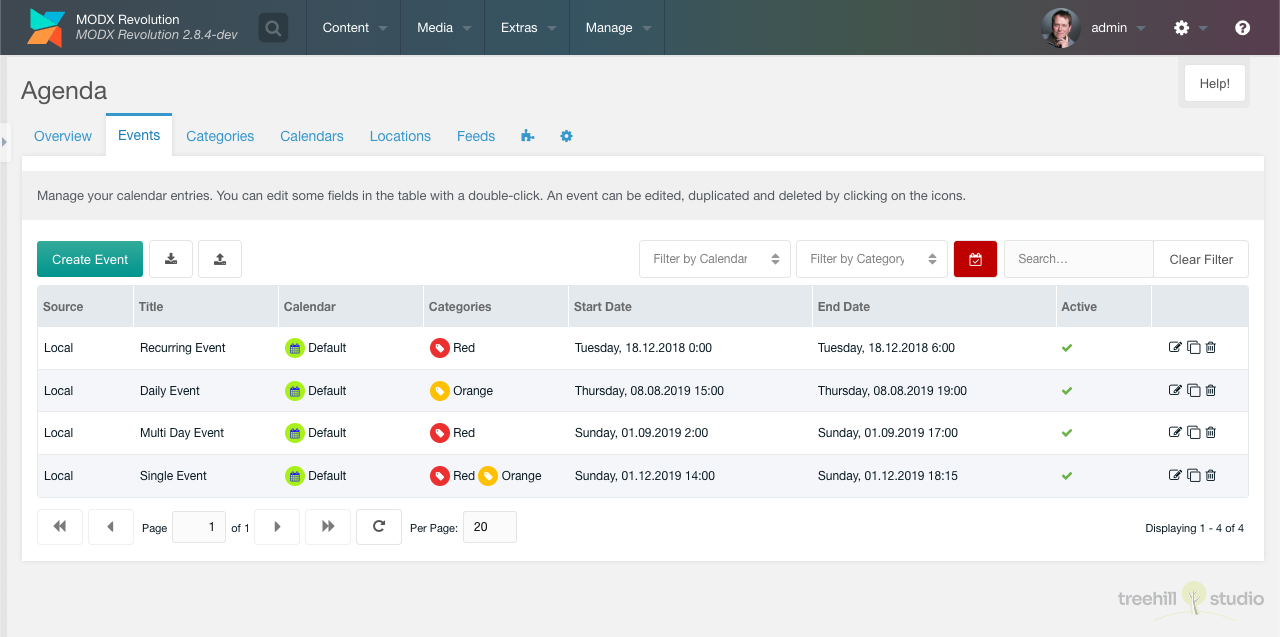
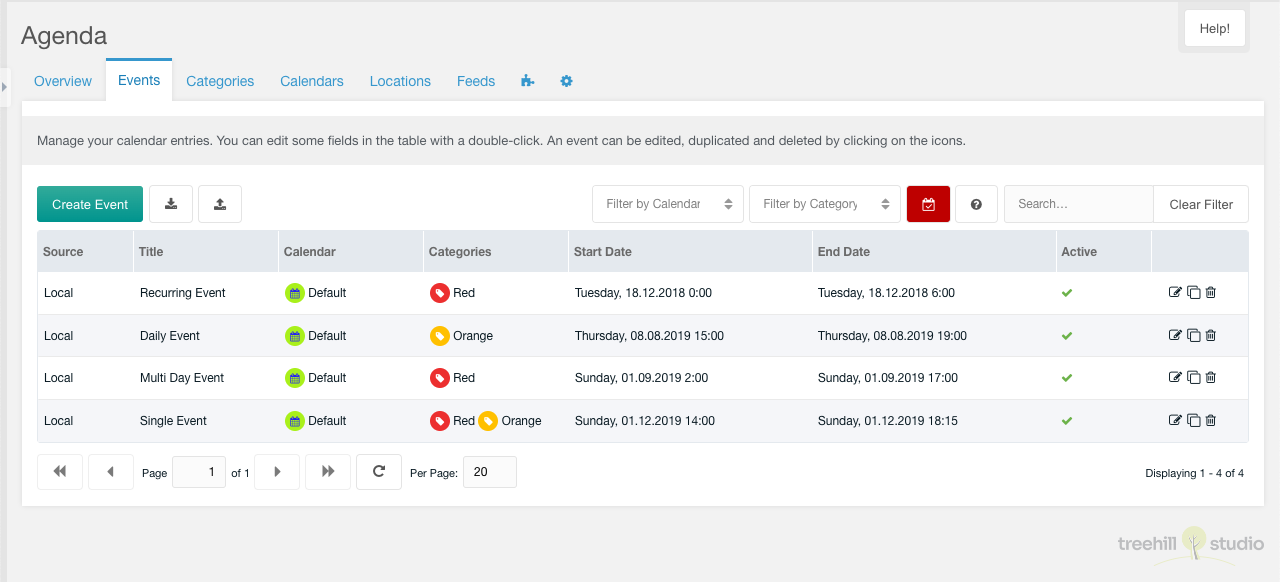
Update docs for 1.6.4 (#245)

diff --git a/en/01_Agenda/v1/04_Snippets/01_AgendaList.md b/en/01_Agenda/v1/04_Snippets/01_AgendaList.md
@@ -4,46 +4,47 @@ This snippet displays events in a list view.
 
 It uses the following snippet properties:
 
-| Property           | Description                                                                                                                                                                                       | Default                |
-|--------------------|---------------------------------------------------------------------------------------------------------------------------------------------------------------------------------------------------|------------------------|
-| ajax               | **Since 1.4.0** If this option is set, the snippet output will be directly returned to the browser as a JSON result when the page is requested with the same value in the ajax request parameter. | 0 (No)                 |
-| allowedRequestKeys | Comma-separated list of request keys, that can be used to filter the displayed events. Defaults to all allowed.                                                                                   | -                      |
-| calendars          | Comma-separated list of aliases of calendars to filter the displayed events.                                                                                                                      | -                      |
-| categories         | Comma separated list of aliases of categories to filter the displayed events.                                                                                                                     | -                      |
-| categoryTpl        | Name of a chunk that contains the template of one category in the category list of an event.                                                                                                      | tplAgendaEventCategory |
-| contexts           | Comma separated list of context keys to filter the displayed events.                                                                                                                              | -                      |
-| daterangeFormat    | Format of the daterange displayed in an event.                                                                                                                                                    | -                      |
-| daterangeSeparator | Separator in the daterange displayed in an event.                                                                                                                                                 | -                      |
-| detailId           | ID of a resource containing an AgendaDetail snippet call.                                                                                                                                         | -                      |
-| durationParts      | Number of detail parts of the event duration output.                                                                                                                                              | 1                      |
-| durationRound      | **Since 1.5.0** Rounding type for event duration.                                                                                                                                                 | ceil                   |
-| emptyTpl           | Name of a chunk that contains the template for an empty list of events.                                                                                                                           | tplAgendaEventEmpty    |
-| end                | The end date to filter the displayed events. Must contain a [supported date and time format](https://www.php.net/manual/de/datetime.formats.php).                                                 | today +1 month 0:00    |
-| events             | Comma separated list of event IDs to filter the displayed events and their repeats. Supersedes the repeats property.                                                                              | -                      |
-| excludeEvents      | Comma separated list of event IDs to exclude from the displayed events.                                                                                                                           | -                      |
-| excludeRepeats     | Comma separated list of repeating event IDs to exclude from the displayed events.                                                                                                                 | -                      |
-| groupby            | **Since 1.5.0** xPDO group by clause to filter the events.                                                                                                                                        | -                      |
-| imageTpl           | Name of a chunk that contains the template for one image in the image list of an event.                                                                                                           | tplAgendaEventImage    |
-| limit              | Limit the number of events in the result. Use "0" for unlimited events.                                                                                                                           | 20                     |
-| listId             | ID of a resource containing an AgendaList snippet call.                                                                                                                                           | -                      |
-| locale             | The locale for the displayed formatted date. Defaults to the current system/context locale setting.                                                                                               | -                      |
-| locations          | Comma separated list of aliases of locations to filter the displayed events.                                                                                                                      | -                      |
-| locationTpl        | Name of a chunk that contains the template for the location of an event.                                                                                                                          | tplAgendaEventLocation |
-| offset             | The offset of events to skip.                                                                                                                                                                     | -                      |
-| outputSeparator    | An optional string to separate each tpl instance.                                                                                                                                                 | -                      |
-| repeats            | Comma separated list of repeating event IDs to filter the displayed repeating events. Overridden by the events property.                                                                          | -                      |
-| resourceTpl        | Name of a chunk that contains the template for the linked resource of an event.                                                                                                                   | -                      |
-| sortby             | Sort field for sorting the output. It could also contain a JSON object to sort the ouput by multiple fields like <pre>{"AgendaEvents.title":"ASC","all_startdate":"ASC"}</pre>.                   | all_startdate          |
-| sortdir            | Sort direction for sorting the output. Unused when the sortby property contains a valid JSON object.                                                                                              | ASC                    |
-| start              | The start date to filter the displayed events. Must contain a [supported date and time format](https://www.php.net/manual/de/datetime.formats.php).                                               | today 0:00             |
-| toPlaceholder      | If set, the snippet result will be assigned to this placeholder instead of outputting it directly.                                                                                                | -                      |
-| totalVar           | The key of a placeholder that indicates the total number of events.                                                                                                                               | agendalist.total       |
-| tpl                | Name of a chunk that contains the template for one event.                                                                                                                                         | tplAgendaEventRow      |
-| usergroups         | Comma separated list of user group names to filter the displayed events.                                                                                                                          | -                      |
-| users              | Comma separated list of user IDs to filter the displayed events.                                                                                                                                  | -                      |
-| videoTpl           | Name of a chunk that contains the template for one video in the video list of an event.                                                                                                           | tplAgendaEventVideo    |
-| where              | **Since 1.5.0** JSON encoded xPDO where clause to filter the listed events.                                                                                                                       | -                      |
-| wrapperTpl         | Name of a chunk that contains the wrapper template for all events.                                                                                                                                | tplAgendaEventWrapper  |
+| Property           | Description                                                                                                                                                                        | Default                |
+|--------------------|------------------------------------------------------------------------------------------------------------------------------------------------------------------------------------|------------------------|
+| active             | **Since 1.6.3** If this option is disabled, the active status of an event is not regarded.                                                                                         | 1 (Yes)                |
+| ajax               | **Since 1.4.0** If set, the snippet output will be directly returned to the browser as a JSON result when the page is requested with the same value in the ajax request parameter. | 0 (No)                 |
+| allowedRequestKeys | Comma-separated list of request keys, that can be used to filter the displayed events. Defaults to all allowed.                                                                    | -                      |
+| calendars          | Comma-separated list of aliases of calendars to filter the displayed events.                                                                                                       | -                      |
+| categories         | Comma separated list of aliases of categories to filter the displayed events.                                                                                                      | -                      |
+| categoryTpl        | Name of a chunk that contains the template of one category in the category list of an event.                                                                                       | tplAgendaEventCategory |
+| contexts           | Comma separated list of context keys to filter the displayed events.                                                                                                               | -                      |
+| daterangeFormat    | Format of the daterange displayed in an event.                                                                                                                                     | -                      |
+| daterangeSeparator | Separator in the daterange displayed in an event.                                                                                                                                  | -                      |
+| detailId           | ID of a resource containing an AgendaDetail snippet call.                                                                                                                          | -                      |
+| durationParts      | Number of detail parts of the event duration output.                                                                                                                               | 1                      |
+| durationRound      | **Since 1.5.0** Rounding type for event duration.                                                                                                                                  | ceil                   |
+| emptyTpl           | Name of a chunk that contains the template for an empty list of events.                                                                                                            | tplAgendaEventEmpty    |
+| end                | The end date to filter the displayed events. Must contain a [supported date and time format](https://www.php.net/manual/de/datetime.formats.php).                                  | today +1 month 0:00    |
+| events             | Comma separated list of event IDs to filter the displayed events and their repeats. Supersedes the repeats property.                                                               | -                      |
+| excludeEvents      | Comma separated list of event IDs to exclude from the displayed events.                                                                                                            | -                      |
+| excludeRepeats     | Comma separated list of repeating event IDs to exclude from the displayed events.                                                                                                  | -                      |
+| groupby            | **Since 1.5.0** xPDO group by clause to filter the events.                                                                                                                         | -                      |
+| imageTpl           | Name of a chunk that contains the template for one image in the image list of an event.                                                                                            | tplAgendaEventImage    |
+| limit              | Limit the number of events in the result. Use "0" for unlimited events.                                                                                                            | 20                     |
+| listId             | ID of a resource containing an AgendaList snippet call.                                                                                                                            | -                      |
+| locale             | The locale for the displayed formatted date. Defaults to the current system/context locale setting.                                                                                | -                      |
+| locations          | Comma separated list of aliases of locations to filter the displayed events.                                                                                                       | -                      |
+| locationTpl        | Name of a chunk that contains the template for the location of an event.                                                                                                           | tplAgendaEventLocation |
+| offset             | The offset of events to skip.                                                                                                                                                      | -                      |
+| outputSeparator    | An optional string to separate each tpl instance.                                                                                                                                  | -                      |
+| repeats            | Comma separated list of repeating event IDs to filter the displayed repeating events. Overridden by the events property.                                                           | -                      |
+| resourceTpl        | Name of a chunk that contains the template for the linked resource of an event.                                                                                                    | -                      |
+| sortby             | Sort field for sorting the output. It could also contain a JSON object to sort the ouput by multiple fields like <pre>{"AgendaEvents.title":"ASC","all_startdate":"ASC"}</pre>.    | all_startdate          |
+| sortdir            | Sort direction for sorting the output. Unused when the sortby property contains a valid JSON object.                                                                               | ASC                    |
+| start              | The start date to filter the displayed events. Must contain a [supported date and time format](https://www.php.net/manual/de/datetime.formats.php).                                | today 0:00             |
+| toPlaceholder      | If set, the snippet result will be assigned to this placeholder instead of outputting it directly.                                                                                 | -                      |
+| totalVar           | The key of a placeholder that indicates the total number of events.                                                                                                                | agendalist.total       |
+| tpl                | Name of a chunk that contains the template for one event.                                                                                                                          | tplAgendaEventRow      |
+| usergroups         | Comma separated list of user group names to filter the displayed events.                                                                                                           | -                      |
+| users              | Comma separated list of user IDs to filter the displayed events.                                                                                                                   | -                      |
+| videoTpl           | Name of a chunk that contains the template for one video in the video list of an event.                                                                                            | tplAgendaEventVideo    |
+| where              | **Since 1.5.0** JSON encoded xPDO where clause to filter the displayed events.                                                                                                     | -                      |
+| wrapperTpl         | Name of a chunk that contains the wrapper template for all events.                                                                                                                 | tplAgendaEventWrapper  |
 
 ## Placeholders
 

diff --git a/en/01_Agenda/v1/04_Snippets/02_AgendaCalendar.md b/en/01_Agenda/v1/04_Snippets/02_AgendaCalendar.md
@@ -7,7 +7,8 @@ It uses the following snippet properties:
 
 | Property           | Description                                                                                                                                                                    | Default                |
 |--------------------|--------------------------------------------------------------------------------------------------------------------------------------------------------------------------------|------------------------|
-| ajax               | **Since 1.4.0** If set, the snippet output will be directly output as JSON result to the browser when the page is requested with the same value in the ajax request parameter.  | 0 (No)                 |
+| active             | **Since 1.6.3** If this option is disabled, the active status of an event is not regarded.                                                                                     | 1 (Yes)                |
+| ajax               | **Since 1.4.0** If set, the snippet output will be directly returned to the browser as a JSON result when the page is requested with the same value in the ajax request parameter. | 0 (No)                 |
 | allowedRequestKeys | Comma-separated list of request keys, that can be used to filter the displayed events. Defaults to all allowed.                                                                | -                      |
 | calendars          | Comma-separated list of aliases of calendars to filter the displayed events.                                                                                                   | -                      |
 | categories         | Comma separated list of aliases of categories to filter the displayed events.                                                                                                  | -                      |
@@ -26,17 +27,17 @@ It uses the following snippet properties:
 | intervalTpl        | Name of a chunk that contains the template for an interval.                                                                                                                    | tplAgendaEventInterval |
 | listId             | ID of a resource containing an AgendaList snippet call.                                                                                                                        | -                      |
 | locale             | The locale for the displayed formatted date. Defaults to the current system/context locale setting.                                                                            | -                      |
-| locationTpl        | Name of a chunk that contains the template for the location of an event.                                                                                                       | tplAgendaEventLocation |
 | locations          | Comma separated list of aliases of locations to filter the displayed events.                                                                                                   | -                      |
+| locationTpl        | Name of a chunk that contains the template for the location of an event.                                                                                                       | tplAgendaEventLocation |
 | outputSeparator    | An optional string to separate each tpl instance.                                                                                                                              | -                      |
-| resourceTpl        | Name of a chunk that contains the template for the linked resource of a calendar.                                                                                              | -                      |
+| resourceTpl        | Name of a chunk that contains the template for the linked resource of an event.                                                                                                | -                      |
 | start              | The start date to filter the displayed events. Must contain a [supported date and time format](https://www.php.net/manual/de/datetime.formats.php).                            | -                      |
 | toPlaceholder      | If set, the snippet result will be assigned to this placeholder instead of outputting it directly.                                                                             | -                      |
 | tpl                | Name of a chunk that contains the template for one event.                                                                                                                      | tplAgendaEventRow      |
 | usergroups         | Comma separated list of user group names to filter the displayed events.                                                                                                       | -                      |
 | users              | Comma separated list of user IDs to filter the displayed events.                                                                                                               | -                      |
 | videoTpl           | Name of a chunk that contains the template for one video in the video list of an event.                                                                                        | tplAgendaEventVideo    |
-| where              | **Since 1.5.0** JSON encoded xPDO where clause to filter the calendar events.                                                                                                  | -                      |
+| where              | **Since 1.5.0** JSON encoded xPDO where clause to filter the displayed events.                                                                                                  | -                      |
 | wrapperTpl         | Name of a chunk that contains the wrapper template for all events.                                                                                                             | tplAgendaEventWrapper  |
 
 ## Placeholders

diff --git a/en/01_Agenda/v1/04_Snippets/06_AgendaCategories.md b/en/01_Agenda/v1/04_Snippets/06_AgendaCategories.md
@@ -6,11 +6,11 @@ It uses the following snippet properties:
 
 | Property           | Description                                                                                                                                                                                                       | Default                    |
 |--------------------|-------------------------------------------------------------------------------------------------------------------------------------------------------------------------------------------------------------------|----------------------------|
-| ajax               | **Since 1.4.0** If this option is set, the snippet output will be directly returned to the browser as a JSON result when the page is requested with the same value in the ajax request parameter.                 | 0 (No)                     |
+| ajax               | **Since 1.4.0** If set, the snippet output will be directly returned to the browser as a JSON result when the page is requested with the same value in the ajax request parameter.                 | 0 (No)                     |
 | allowedRequestKeys | Comma-separated list of request keys, that can be used to filter the displayed categories. Defaults to all allowed.                                                                                               | -                          |
 | categories         | Comma-separated list of aliases of categories to filter the displayed categories.                                                                                                                                 | -                          |
 | emptyTpl           | Name of a chunk that contains the template for not found categories.                                                                                                                                              | tplAgendaCategoriesEmpty   |
-| filterByEvents     | **Since 1.5.0** If this option is set, the categories with no future events are filtered from the result.                                                                                                         | 0 (No)                     |
+| filterByEvents     | **Since 1.5.0** If set, the categories with no future events are filtered from the result.                                                                                                         | 0 (No)                     |
 | limit              | Limit the number of categories in the result. Use "0" for unlimited categories.                                                                                                                                   | 20                         |
 | listId             | ID of a resource containing an AgendaList snippet call.                                                                                                                                                           | -                          |
 | offset             | The offset of categories to skip.                                                                                                                                                                                 | -                          |

diff --git a/en/01_Agenda/v1/04_Snippets/05_AgendaCalendars.md b/en/01_Agenda/v1/04_Snippets/05_AgendaCalendars.md
@@ -6,11 +6,11 @@ It uses the following snippet properties:
 
 | Property           | Description                                                                                                                                                                                                     | Default                   |
 |--------------------|-----------------------------------------------------------------------------------------------------------------------------------------------------------------------------------------------------------------|---------------------------|
-| ajax               | **Since 1.4.0** If this option is set, the snippet output will be directly returned to the browser as a JSON result when the page is requested with the same value in the ajax request parameter.               | 0 (No)                    |
+| ajax               | **Since 1.4.0** If set, the snippet output will be directly returned to the browser as a JSON result when the page is requested with the same value in the ajax request parameter.               | 0 (No)                    |
 | allowedRequestKeys | Comma-separated list of request keys, that can be used to filter the displayed calendars. Defaults to all allowed.                                                                                              | -                         |
 | calendars          | Comma-separated list of aliases of calendars to filter the displayed calendars.                                                                                                                                 | -                         |
 | emptyTpl           | Name of a chunk that contains the template for not found calendars.                                                                                                                                             | tplAgendaCalendarsEmpty   |
-| filterByEvents     | **Since 1.5.0** If this option is set, the calendars with no future events are filtered from the result.                                                                                                        | 0 (No)                    |
+| filterByEvents     | **Since 1.5.0** If set, the calendars with no future events are filtered from the result.                                                                                                        | 0 (No)                    |
 | limit              | Limit the number of calendars in the result. Use "0" for unlimited calendars.                                                                                                                                   | 20                        |
 | listId             | ID of a resource containing an AgendaList snippet call.                                                                                                                                                         | -                         |
 | offset             | The offset of calendars to skip.                                                                                                                                                                                | -                         |

diff --git a/en/01_Agenda/v1/04_Snippets/07_AgendaLocations.md b/en/01_Agenda/v1/04_Snippets/07_AgendaLocations.md
@@ -6,10 +6,10 @@ It uses the following snippet properties:
 
 | Property           | Description                                                                                                                                                                                                  | Default                   |
 |--------------------|--------------------------------------------------------------------------------------------------------------------------------------------------------------------------------------------------------------|---------------------------|
-| ajax               | **Since 1.4.0** If set, the snippet output will be directly output as JSON result to the browser when the page is requested with the same value in the ajax request parameter.                                | 0 (No)                    |
+| ajax               | **Since 1.4.0** If set, the snippet output will be directly returned to the browser as a JSON result when the page is requested with the same value in the ajax request parameter.                                | 0 (No)                    |
 | allowedRequestKeys | Comma-separated list of request keys, that can be used to filter the displayed locations. Defaults to all allowed.                                                                                           | -                         |
 | emptyTpl           | Name of a chunk that contains the template for not found locations.                                                                                                                                          | tplAgendaLocationsEmpty   |
-| filterByEvents     | **Since 1.5.0** If this option is set, the locations with no future events are filtered from the result.                                                                                                     | 0 (No)                    |
+| filterByEvents     | **Since 1.5.0** If set, the locations with no future events are filtered from the result.                                                                                                     | 0 (No)                    |
 | limit              | Limit the number of locations in the result. Use "0" for unlimited locations.                                                                                                                                | 20                        |
 | listId             | ID of a resource containing an AgendaList snippet call.                                                                                                                                                      | -                         |
 | locations          | Comma-separated list of aliases of locations to filter the displayed locations.                                                                                                                              | -                         |

diff --git a/en/01_Agenda/v1/03_System_Settings.md b/en/01_Agenda/v1/03_System_Settings.md
@@ -38,7 +38,7 @@ custom manager page.
 | agenda.repeating_max_occurance  | Maximum Occurance                | Maximum orccurance of repeating events.                                                                                                                                                                                                                         | 100           |
 | agenda.show_ids                 | Show ID Columns                  | ** Since 1.5.5 ** Show ID columns in the tables.                                                                                                                                                                                                                | No            |
 | agenda.use_activate_at          | Use Activate                     | ** Since 1.6.0 ** Show the ‘Activate/Deactivate At’ input in the event, the repeat, the location, the image, the video, the category and the calendar edit window. The data will be activated/deactivated during a page request.                                | No            |
-| agenda.use_category             | Use Category                     | Show category entry in the events editing window. Show categories column in the events table. Show categories tab in the custom manager page of Agenda.                                                                                                         | Yes           |
+| agenda.use_category             | Use Category                     | Show the category input in the event edit window. Show the categories column in the events grid. Show the categories tab in the Agenda custom manager page.                                                                                                     | Yes           |
 | agenda.use_context              | Use Contexts                     | Show the context input in the event edit window.                                                                                                                                                                                                                | Yes           |
 | agenda.use_location             | Use Location                     | Show the location input in the event edit window. Show the locations tab in the Agenda custom manager page.                                                                                                                                                     | Yes           |
 | agenda.video_mediasource        | Video Media Source               | Media Source for Event Videos.                                                                                                                                                                                                                                  | 1             |

diff --git a/en/01_Agenda/v1/08_System_Events.md b/en/01_Agenda/v1/08_System_Events.md
@@ -3,6 +3,8 @@
 The OnAgendaBeforeSave, OnAgendaSave and OnAgendaBeforeRemove system events were
 introduced in Agenda 1.5.0.
 
+The OnAgendaValidate system event was introduced in Agenda 1.6.3.
+
 The use of these events allows additional code to be executed before and after
 saving and before deleting Agenda database entries.
 
@@ -12,9 +14,14 @@ AgendaEvents, AgendaEventVideos and AgendaLocations.
 
 The following properties can be used in the plugin events:
 
-| Property  | Content                                                                                                                        |
-|-----------|--------------------------------------------------------------------------------------------------------------------------------|
-| mode      | The state of the Agenda object. It can contain the following states: `modSystemEvent::MODE_NEW` or `modSystemEvent::MODE_UPD`. |
-| className | The class name of the saved object.                                                                                            |
-| id        | The identifier of the saved object.                                                                                            |
-| event     | The plugin event.                                                                                                              |
+| Property  | Content                                                                                                                                                              |
+|-----------|----------------------------------------------------------------------------------------------------------------------------------------------------------------------|
+| mode      | The state of the Agenda object. It can contain the following states: `modSystemEvent::MODE_NEW` or `modSystemEvent::MODE_UPD`. Not available in OnAgendaBeforeRemove |
+| className | The class name of the saved object.                                                                                                                                  |
+| id        | The identifier of the saved object.                                                                                                                                  |
+| object    | The Agenda object.                                                                                                                                                   |
+
+Skeleton classes for the events can be found in
+`core/components/agenda/src/Plugins/Events`. To use them, you have to remove the
+underscore prefix from the filename and activate the according event in the
+Agenda plugin.

diff --git a/en/01_Agenda/v1/04_Snippets/03_AgendaDetail.md b/en/01_Agenda/v1/04_Snippets/03_AgendaDetail.md
@@ -6,7 +6,7 @@ It uses the following snippet properties:
 
 | Property           | Description                                                                                                                                                                                       | Default                |
 |--------------------|---------------------------------------------------------------------------------------------------------------------------------------------------------------------------------------------------|------------------------|
-| ajax               | **Since 1.4.0** If this option is set, the snippet output will be directly returned to the browser as a JSON result when the page is requested with the same value in the ajax request parameter. | 0 (No)                 |
+| ajax               | **Since 1.4.0** If set, the snippet output will be directly returned to the browser as a JSON result when the page is requested with the same value in the ajax request parameter. | 0 (No)                 |
 | allowedRequestKeys | Comma-separated list of request keys, that can be used to filter the displayed event. Defaults to all allowed.                                                                                    | -                      |
 | calendars          | Comma-separated list of aliases of calendars to filter the displayed event.                                                                                                                       | -                      |
 | categories         | Comma separated list of aliases of categories to filter the displayed event.                                                                                                                      | -                      |

diff --git a/en/01_Agenda/v1/02_Custom_Manager_Page/02_Events.md b/en/01_Agenda/v1/02_Custom_Manager_Page/02_Events.md
@@ -9,10 +9,11 @@ If the manger user has `agenda_export` or `agend_import` permissions an export
 and import button is displayed right of the create event button. This allows the
 user to [export and import](../07_Export_Import_Events.md) the events.
 
-The grid can be toggled to display past or future events. When the grid shows
-past events, the toggle button is displayed in red. It can be filtered by
-calendar and category. It can also be filtered by a search input on the top
-right above the event grid.
+The grid can be toggled to show past or future events. When the grid shows past
+events, the toggle button is shown in red. It can be filtered by calendar and
+filtered by category. It can also be filtered by the publication status of an
+event and its recurrences. In addition, it can be filtered by a search entry at
+the top right above the event grid.
 
 Each event can be edited by clicking on the edit icon in the event's row. It can
 be duplicated by clicking on the duplicate icon in the row of the event. It can

diff --git a/en/01_Agenda/v1/02_Custom_Manager_Page/01_Overview.md b/en/01_Agenda/v1/02_Custom_Manager_Page/01_Overview.md
@@ -7,7 +7,8 @@ number in the month view (or the date/weekday in the week/day view). There is
 also a create event button on the top left of the tab.
 
 The calendar can be filtered by calendar or category dropdown selects and by a
-search input on the top right of the tab.
+search input on the top right of the tab. It can also be filtered by the
+publication status of an event.
 
 The arrow buttons on the top left can be used to switch the event month (in
 the month view). If you click on today, the calendar will show the current day
